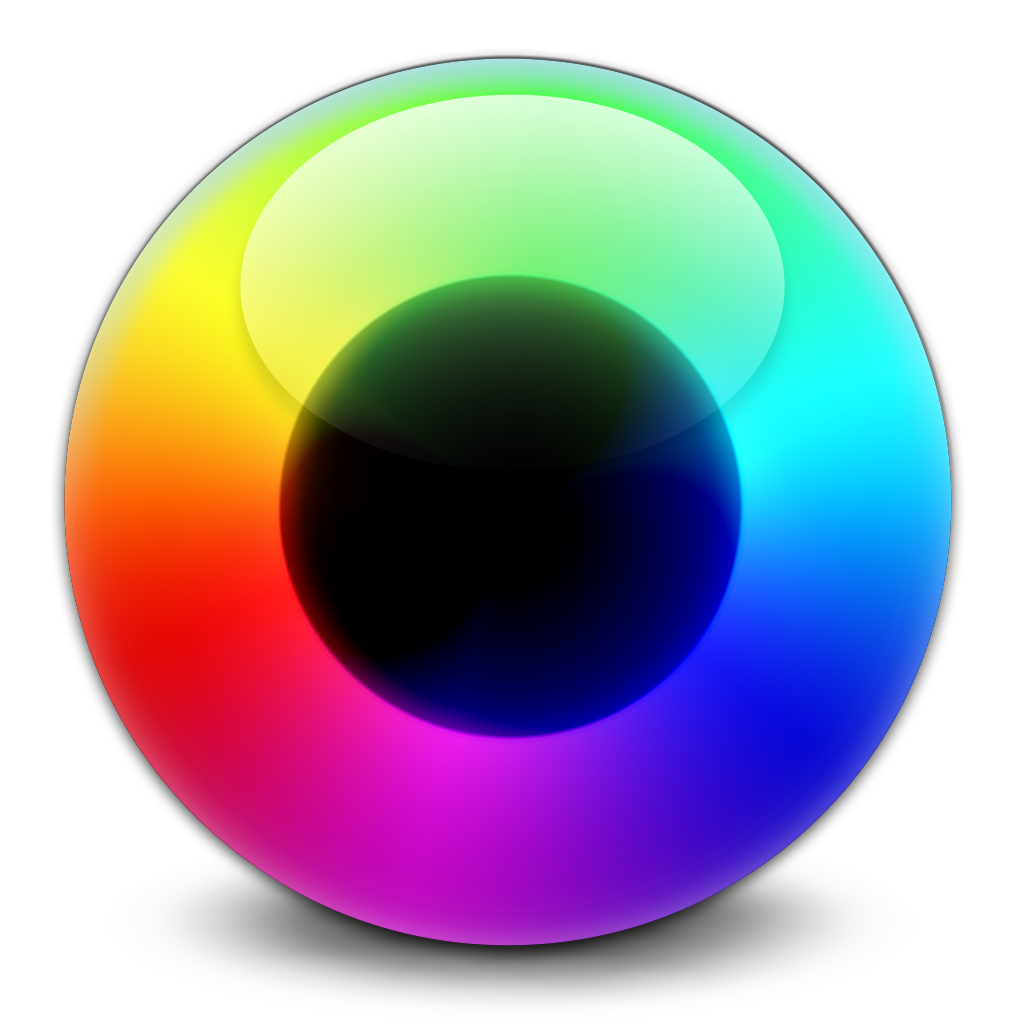
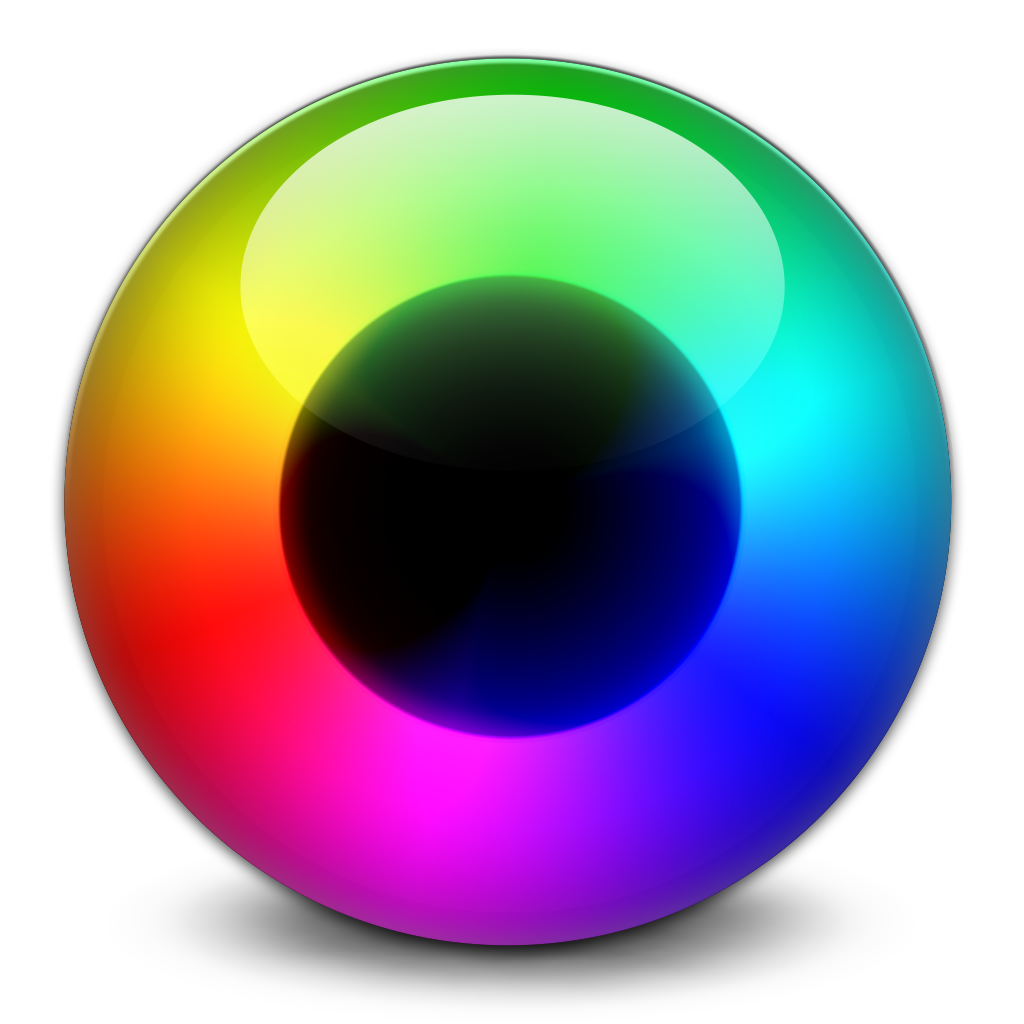
Iconset update

diff --git a/Application Mac/WMView.m b/Application Mac/WMView.m
@@ -1,0 +1,28 @@
+//
+//  WMView.m
+//  WMGraph
+//
+//  Created by Andrew Pouliot on 12/26/12.
+//  Copyright (c) 2012 Darknoon. All rights reserved.
+//
+
+#import "WMView.h"
+
+@implementation WMView
+
+- (id)initWithFrame:(NSRect)frame
+{
+    self = [super initWithFrame:frame];
+    if (self) {
+        // Initialization code here.
+    }
+    
+    return self;
+}
+
+- (void)drawRect:(NSRect)dirtyRect
+{
+    // Drawing code here.
+}
+
+@end

diff --git a/Application Mac/WMView.h b/Application Mac/WMView.h
@@ -1,0 +1,13 @@
+//
+//  WMView.h
+//  WMGraph
+//
+//  Created by Andrew Pouliot on 12/26/12.
+//  Copyright (c) 2012 Darknoon. All rights reserved.
+//
+
+#import <Cocoa/Cocoa.h>
+
+@interface WMView : NSView
+
+@end
